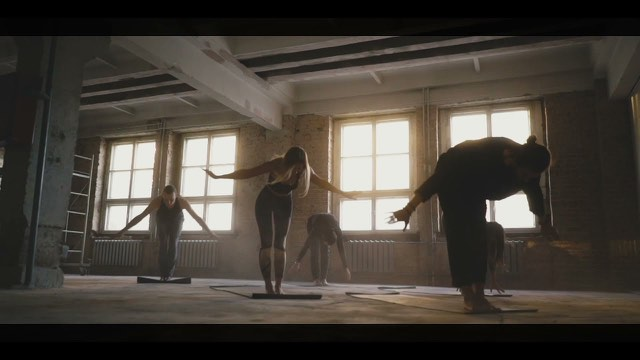
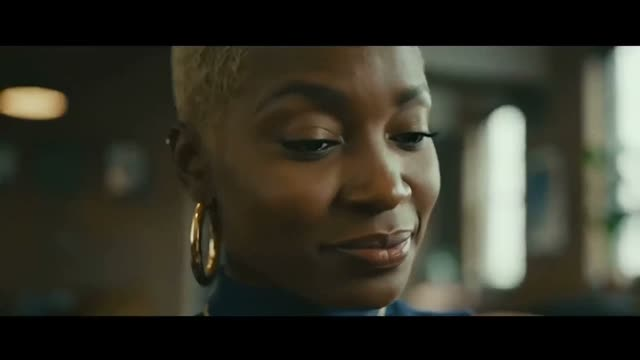
Фоны /ai /sites /smm /content грузят мобильную версию ролика на телефонах; постер шапки — кадр с девушкой из шоурила
CinematicStage теперь переключает src на -mobile.mp4 (уже лежал на диске, но не использовался) при ширине экрана <900px или Data Saver — так же, как уже делает Hero.tsx для главной. Постер /images/showreel-frame.jpg заменён на крупный план из самого ролика вместо старого кадра без людей.

diff --git a/src/components/ui/CinematicStage.tsx b/src/components/ui/CinematicStage.tsx
@@ -235,6 +235,19 @@ export default function CinematicStage({
   // its start when the visitor arrives and the built-in blur-in plays for
   // real instead of having already finished off-screen.
   const [started, setStarted] = useState(false);
+  // Same swap Hero.tsx does for the showreel: phones (and Data Saver) get the
+  // pre-cut `-mobile` reel instead of the 5-8 MB desktop one. The mobile file
+  // already existed on disk for all four reels but nothing here was picking
+  // it — every visitor, phone or not, downloaded the full desktop cut.
+  const [resolvedSrc, setResolvedSrc] = useState(src);
+  useEffect(() => {
+    const saveData = (navigator as Navigator & { connection?: { saveData?: boolean } }).connection?.saveData;
+    if (window.innerWidth < 900 || saveData) {
+      setResolvedSrc(src.replace(/\.mp4$/, "-mobile.mp4"));
+    } else {
+      setResolvedSrc(src);
+    }
+  }, [src]);
   // Chapters visited at least once this page load. Egor's ask: a chapter's
   // entrance (the whole choreography — its own slide-in plus every <Appear>
   // inside it) should play once per visit to the page, not every time the
@@ -1131,7 +1144,7 @@ export default function CinematicStage({
             />
             <video
               ref={videoRef}
-              src={src}
+              src={resolvedSrc}
               poster={poster}
               muted
               playsInline
